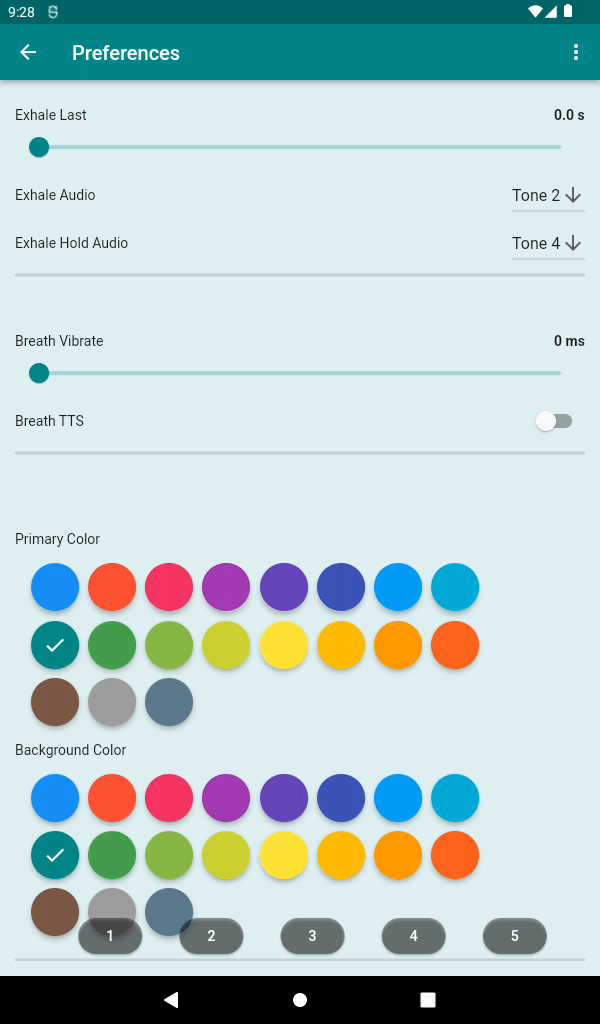
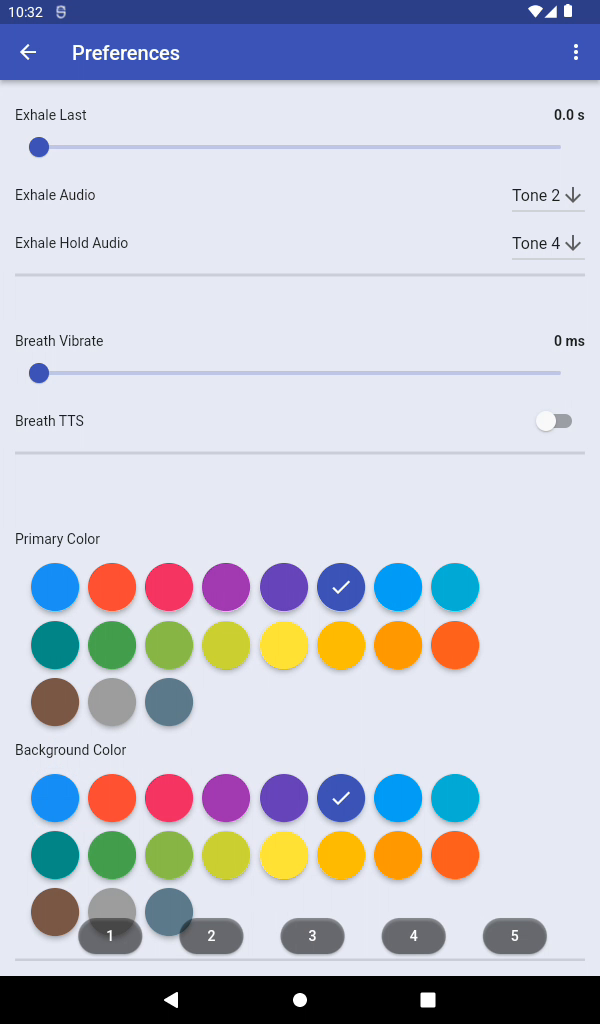
#53: Automate screenshots

Changed region(s): [[0.0, 0.0, 1.0, 0.0938], [0.03, 0.3438, 0.93, 0.375], [0.03, 0.125, 0.93, 0.1562]]

diff --git a/integration_test/demo_test.dart b/integration_test/demo_test.dart
@@ -1,15 +1,14 @@
 // To execute test run:
 // flutter test integration_test/demo_test.dart
 
-import 'package:brethap/sessions_calendar_widget.dart';
-import 'package:flutter_gen/gen_l10n/app_localizations.dart';
-
 import 'package:brethap/constants.dart';
 import 'package:brethap/home_widget.dart';
 import 'package:brethap/preferences_widget.dart';
 import 'package:flutter/material.dart';
+import 'package:flutter_material_color_picker/flutter_material_color_picker.dart';
 import 'package:flutter_test/flutter_test.dart';
 import 'package:integration_test/integration_test.dart';
+import 'package:table_calendar/src/widgets/format_button.dart';
 
 import 'package:brethap/main.dart' as app;
 
@@ -158,19 +157,14 @@ Future<void> main() async {
       await tester.pump(snackbar);
       await tester.pump(wait);
 
-      await tester.pump(wait * 20);
-
-      BuildContext context =
-          tester.element(find.byType(SessionsCalendarWidget));
-
       // tap week
-      finder = find.text(AppLocalizations.of(context)!.week);
+      finder = find.byType(FormatButton);
       expect(finder, findsOneWidget);
       await tester.tap(finder);
       await tester.pump(wait * 2);
 
       // tap month
-      finder = find.text(AppLocalizations.of(context)!.month);
+      finder = find.byType(FormatButton);
       expect(finder, findsOneWidget);
       await tester.tap(finder);
       await tester.pump(wait * 2);
@@ -246,11 +240,10 @@ Future<void> main() async {
 
       // tap primary color
       await tester.pump(wait);
-      finder = find.byKey(const Key(COLOR_PRIMARY_TEXT));
-      expect(finder, findsOneWidget);
-      topLeft = tester.getTopLeft(finder);
-      await tester.tapAt(Offset(topLeft.dx + 40, topLeft.dy + 120));
-      await tester.pump(wait * 2);
+      finder = find.byType(CircleColor);
+      expect(finder, findsWidgets);
+      await tester.tap(finder.at(5));
+      await tester.pump(wait);
 
       // scroll to background color
       finder = find.byKey(const Key(COLOR_BACKGROUND_TEXT));
@@ -260,20 +253,23 @@ Future<void> main() async {
 
       // tap background color
       await tester.pump(wait);
-      finder = find.byKey(const Key(COLOR_BACKGROUND_TEXT));
-      expect(finder, findsOneWidget);
-      topLeft = tester.getTopLeft(finder);
-      await tester.tapAt(Offset(topLeft.dx + 40, topLeft.dy + 120));
-      await tester.pump(wait * 2);
-      finder = find.byKey(const Key(COLOR_BACKGROUND_TEXT));
-      expect(finder, findsOneWidget);
-      topLeft = tester.getTopLeft(finder);
-      await tester.tapAt(Offset(topLeft.dx + 100, topLeft.dy + 60));
-      await tester.pump(wait * 2);
-      finder = find.byKey(const Key(COLOR_BACKGROUND_TEXT));
-      expect(finder, findsOneWidget);
-      topLeft = tester.getTopLeft(finder);
-      await tester.tapAt(Offset(topLeft.dx + 40, topLeft.dy + 60));
+      finder = find.byType(CircleColor);
+      expect(finder, findsWidgets);
+      await tester.tap(finder.at(24));
+      await tester.pump(wait);
+
+      // tap shade
+      await tester.pump(wait);
+      finder = find.byType(CircleColor);
+      expect(finder, findsWidgets);
+      await tester.tap(finder.at(19));
+      await tester.pump(wait);
+
+      // tap back
+      await tester.pump(wait);
+      finder = find.byIcon(Icons.arrow_back);
+      expect(finder, findsWidgets);
+      await tester.tap(finder.at(0));
       await tester.pump(wait);
 
       envVars += "COLORS_SNAP=${stopwatch.elapsed - wait}\n";
